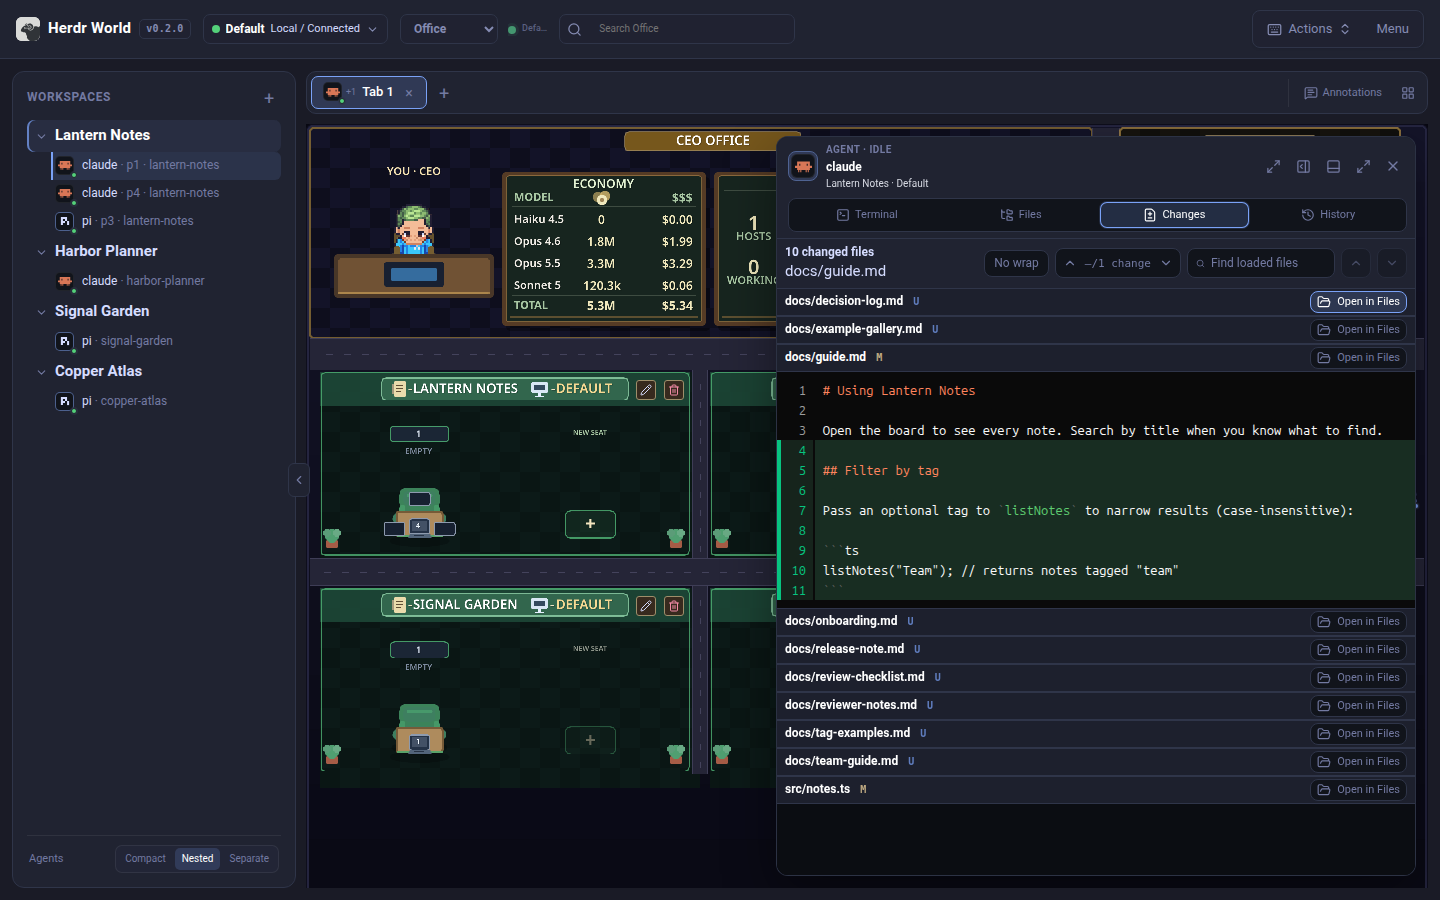
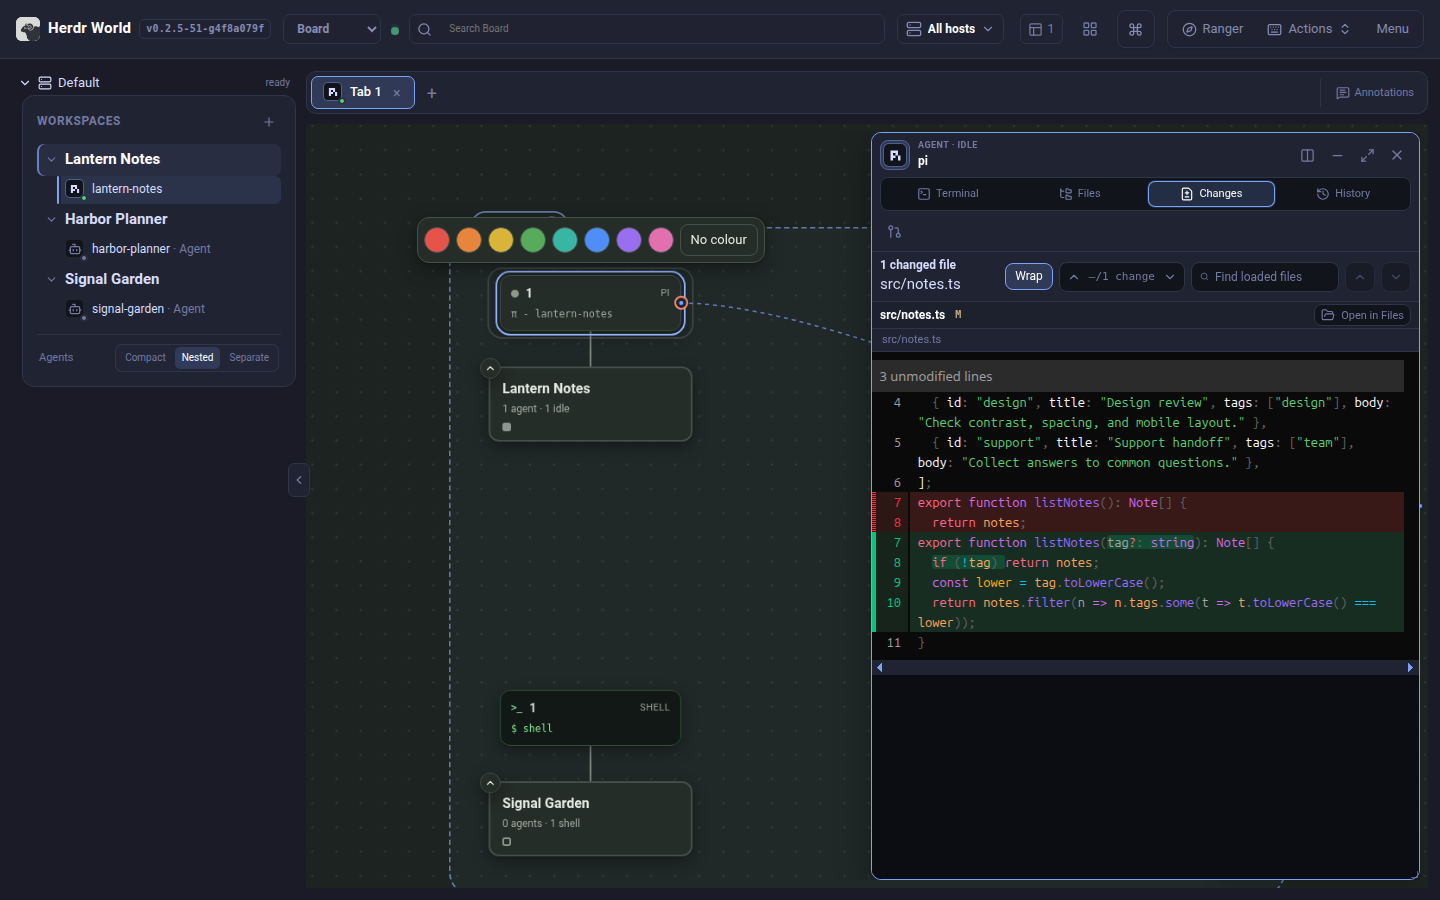
Refresh Inspector screenshots with Board backgrounds

diff --git a/site/index.html b/site/index.html
@@ -579,7 +579,7 @@
                 tabindex="-1"
                 data-showcase-tab
                 data-image="./assets/herdr-world-desktop-files.png"
-                data-alt="Herdr.World Inspector browsing files for the selected agent"
+                data-alt="Board Inspector previewing the Lantern Notes demo guide"
                 data-label="Files"
                 data-title="Inspect the repository without leaving the agent."
                 data-copy="Browse the selected workspace and keep its terminal, changes, and agent identity in one movable Inspector."
@@ -595,7 +595,7 @@
                 tabindex="-1"
                 data-showcase-tab
                 data-image="./assets/herdr-world-desktop-changes.png"
-                data-alt="Herdr.World Inspector showing changed files and a code diff"
+                data-alt="Board Inspector showing the sample tag-filter working-tree diff"
                 data-label="Changes"
                 data-title="Review the agent's changes in context."
                 data-copy="See changed files and inspect a diff beside the selected agent's workspace."
@@ -611,7 +611,7 @@
                 tabindex="-1"
                 data-showcase-tab
                 data-image="./assets/herdr-world-desktop-history.png"
-                data-alt="Herdr.World Inspector showing agent session history"
+                data-alt="Board Inspector showing a recorded Pi review"
                 data-label="History"
                 data-title="Review what the agent actually did."
                 data-copy="Read the selected agent's session record beside its workspace context, then return to the same live terminal."

diff --git a/docs/SCREENSHOTS.md b/docs/SCREENSHOTS.md
@@ -37,9 +37,9 @@ PNG originals without adding fictional UI or agent conversations.
 | Desktop Town | `herdr-world-desktop-town.png` | Four disposable workspace rooms and live shell tables |
 | Desktop Board | `herdr-world-desktop-board.png` | The same workspaces as cards, terminal tabs and synthetic planning notes |
 | Desktop Spaces | `herdr-world-desktop-spaces.png` | Focused workspace and live terminal |
-| Desktop Files | `herdr-world-desktop-files.png` | Same agent's file resource |
-| Desktop Changes | `herdr-world-desktop-changes.png` | Same agent's changed files and readable diff |
-| Desktop History | `herdr-world-desktop-history.png` | Same agent's real session history |
+| Desktop Files | `herdr-world-desktop-files.png` | Board Inspector previewing the restored Lantern Notes guide |
+| Desktop Changes | `herdr-world-desktop-changes.png` | Board Inspector with a seeded tag-filter working-tree diff |
+| Desktop History | `herdr-world-desktop-history.png` | Board Inspector with the genuine recorded Pi review |
 | Mobile Town | `herdr-world-mobile-town.png` | Town at phone width |
 | Mobile Board | `herdr-world-mobile-board.png` | Readable close-up of one workspace, two shell tabs and a strung planning note |
 | Mobile Spaces | `herdr-world-mobile-spaces.png` | Focused terminal and mobile controls |
@@ -54,6 +54,15 @@ notes for stable availability. Office, Tree and Graph images remain historical
 assets and are no longer part of the shared site set. Do not remove their source
 or verification coverage merely because the public gallery changes. The Pages
 release badge follows GitHub's latest stable release rather than a hardcoded version.
+
+The Files, Changes and History captures use Board behind the same Inspector.
+They follow main at `4f8a079f` with Herdr 0.9.3 / protocol 22. The disposable
+Lantern Notes files were restored from the original demo session's read results;
+a reconstructed Git baseline supplies the sample tag-filter diff. History is the
+genuine Pi review recorded on 2 October 2026, resumed offline for display without
+new model turns. The sample diff is not a claim of newly completed agent work.
+Capture Files, Changes and History with Town or Board behind the Inspector.
+Refresh the resource content and its background together.
 
 Inspect every image for private data, clipped controls, stale host indicators,
 and misleading agent status before adding it to Git. Preserve raw capture

diff --git a/README.md b/README.md
@@ -47,10 +47,13 @@ attention counts reflect those scenes; no agent activity is fabricated. Click a 
 The shared Inspector keeps Terminal, Files, Changes and Agent History alongside
 its captured workspace, whether opened from Town, Board or Desk. See the
 [tutorial's review exercise](./docs/TUTORIAL.md#daily) for the complete flow.
+The Files, Changes and History captures below show the Inspector over Board.
+They use a restored demo project, a sample working-tree diff and a genuine
+recorded Pi review.
 
 | Files | Changes | Agent History |
 | --- | --- | --- |
-| [![Shared Inspector file browser](./docs/images/herdr-world-desktop-files.png)](./docs/images/herdr-world-desktop-files.png) | [![Shared Inspector changed files and diff](./docs/images/herdr-world-desktop-changes.png)](./docs/images/herdr-world-desktop-changes.png) | [![Shared Inspector agent session history](./docs/images/herdr-world-desktop-history.png)](./docs/images/herdr-world-desktop-history.png) |
+| [![Board Inspector previewing the demo guide](./docs/images/herdr-world-desktop-files.png)](./docs/images/herdr-world-desktop-files.png) | [![Board Inspector showing the sample tag-filter diff](./docs/images/herdr-world-desktop-changes.png)](./docs/images/herdr-world-desktop-changes.png) | [![Board Inspector showing a recorded Pi review](./docs/images/herdr-world-desktop-history.png)](./docs/images/herdr-world-desktop-history.png) |
 
 ### Mobile
 

diff --git a/CHANGELOG.md b/CHANGELOG.md
@@ -9,6 +9,9 @@ are optional because the merged PR history records their source.
 
 ### Documentation
 
+- Refresh the shared Files, Changes and History screenshots with Board behind
+  the Inspector, and update their captions and capture provenance.
+
 - Focus the README, tutorial, feature guide and website on Town, Board, Desk and
   Spaces, with current Town/Board layouts and desktop/mobile captures. Identify
   Office, Tree and Graph as legacy views planned for retirement. Show a readable
